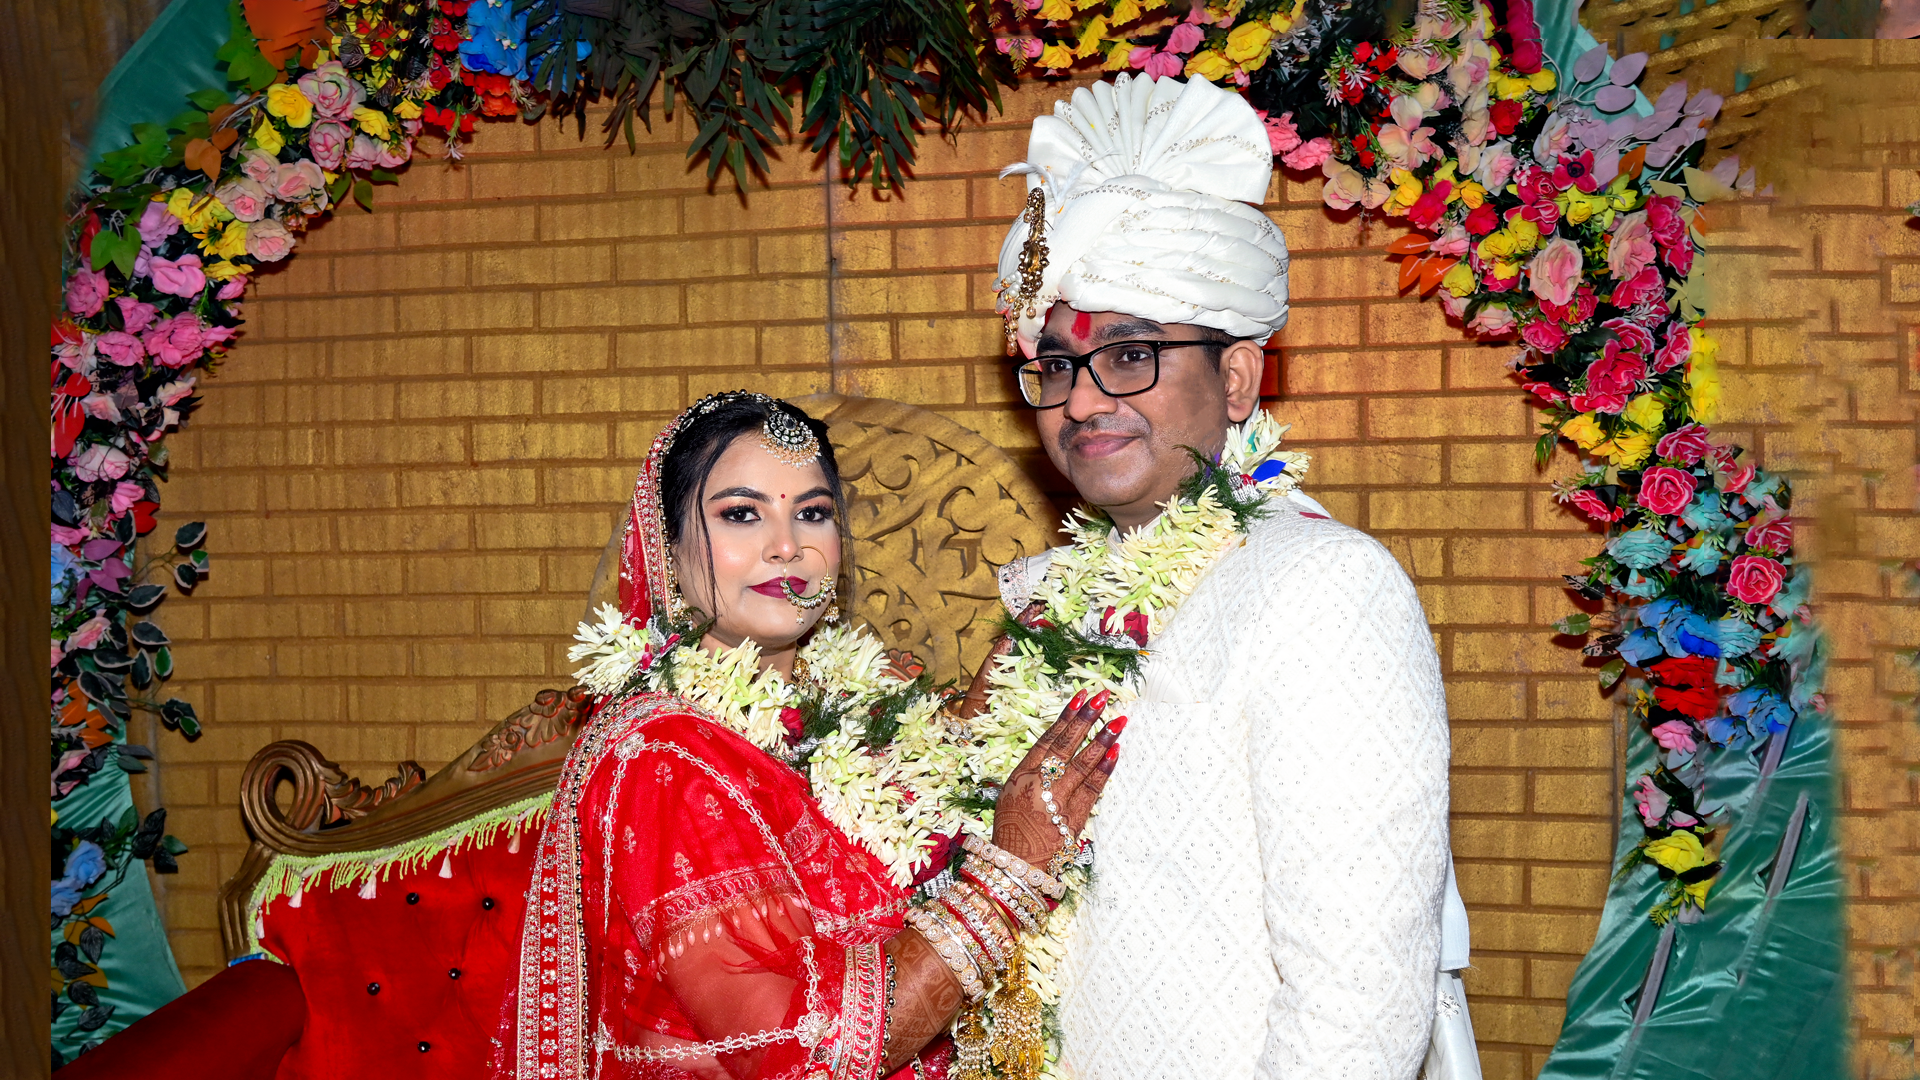
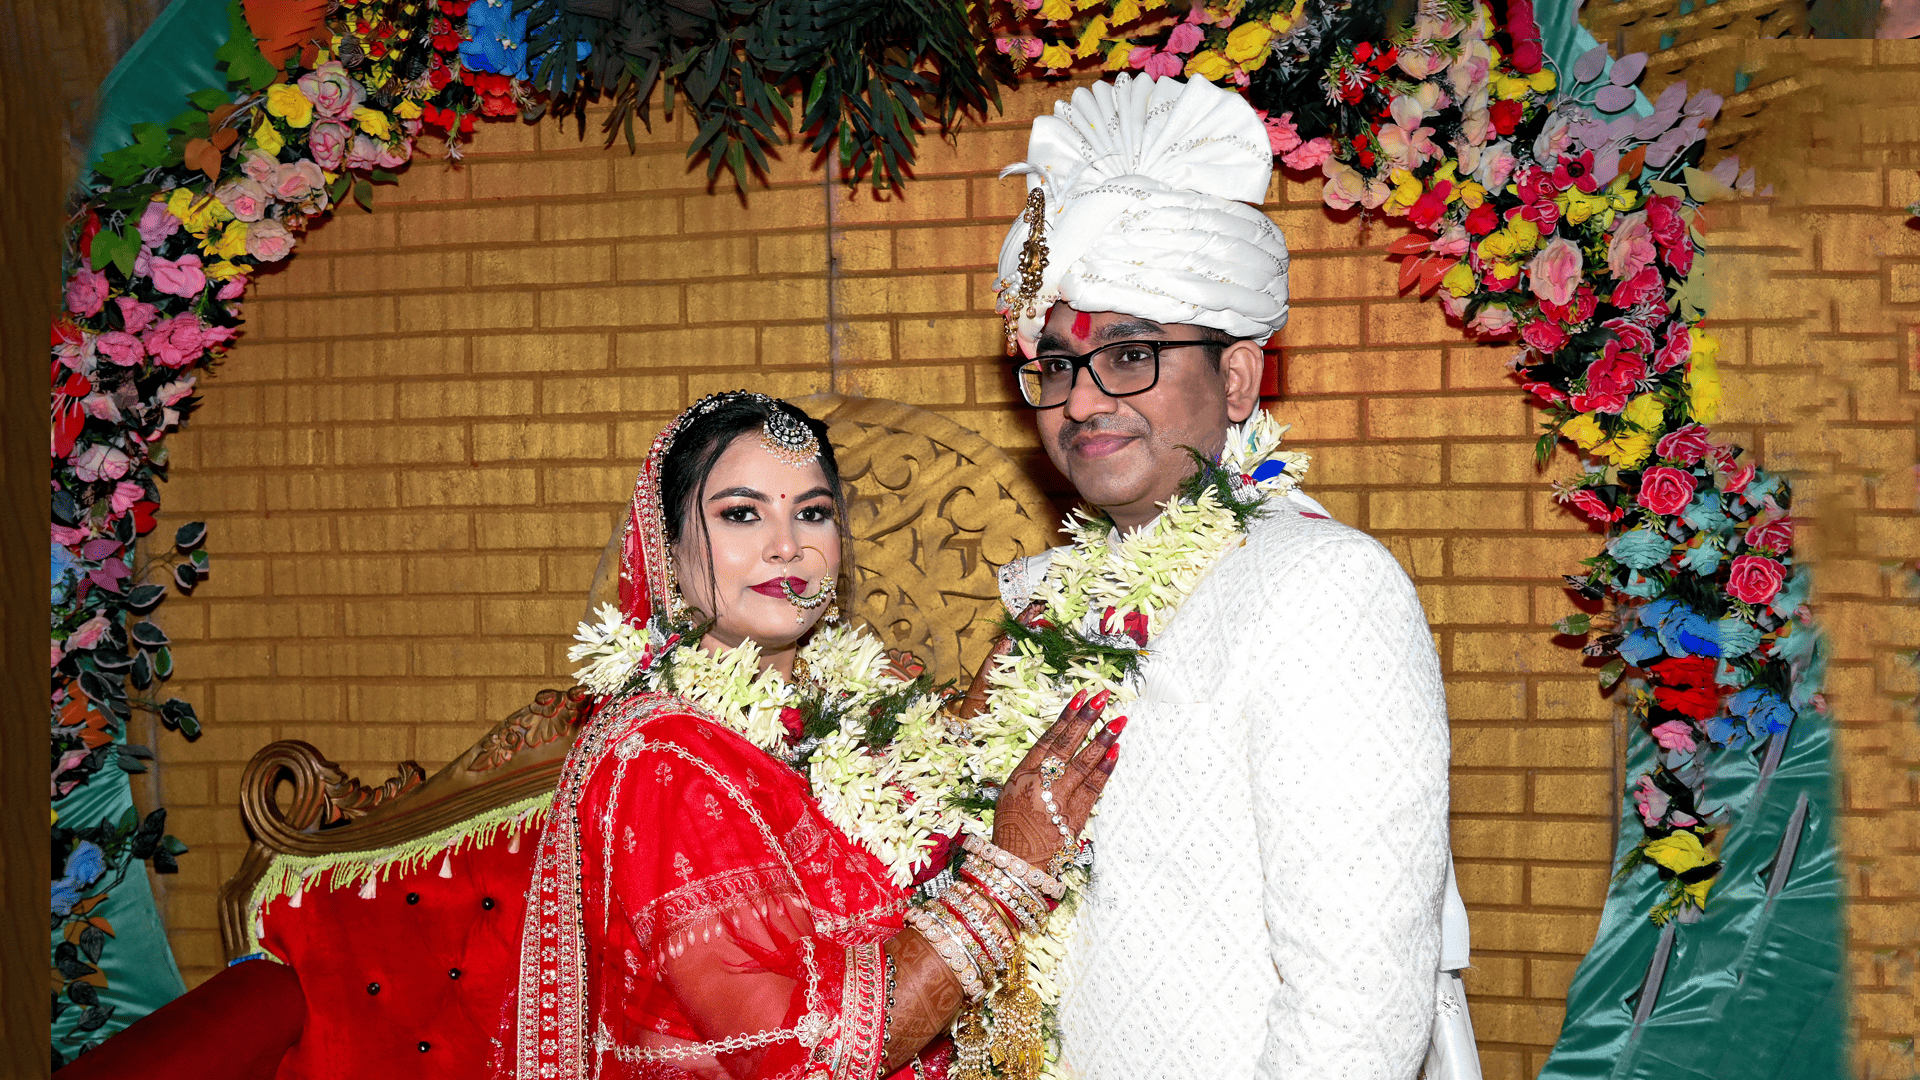
compress images sizes

diff --git a/src/components/Hero.jsx b/src/components/Hero.jsx
@@ -5,8 +5,8 @@ import "../styles/hero.css";
 import Hero1 from "../assets/hero1.jpg";
 import Hero2 from "../assets/hero2.png";
 import Hero3 from "../assets/hero3.png";
-import Hero4 from "../assets/hero4.JPG";
-import Hero5 from "../assets/hero5.JPG";
+import Hero4 from "../assets/hero4.jpg";
+import Hero5 from "../assets/hero5.jpg";
 
 const images = [Hero1, Hero2, Hero3, Hero4, Hero5];
 